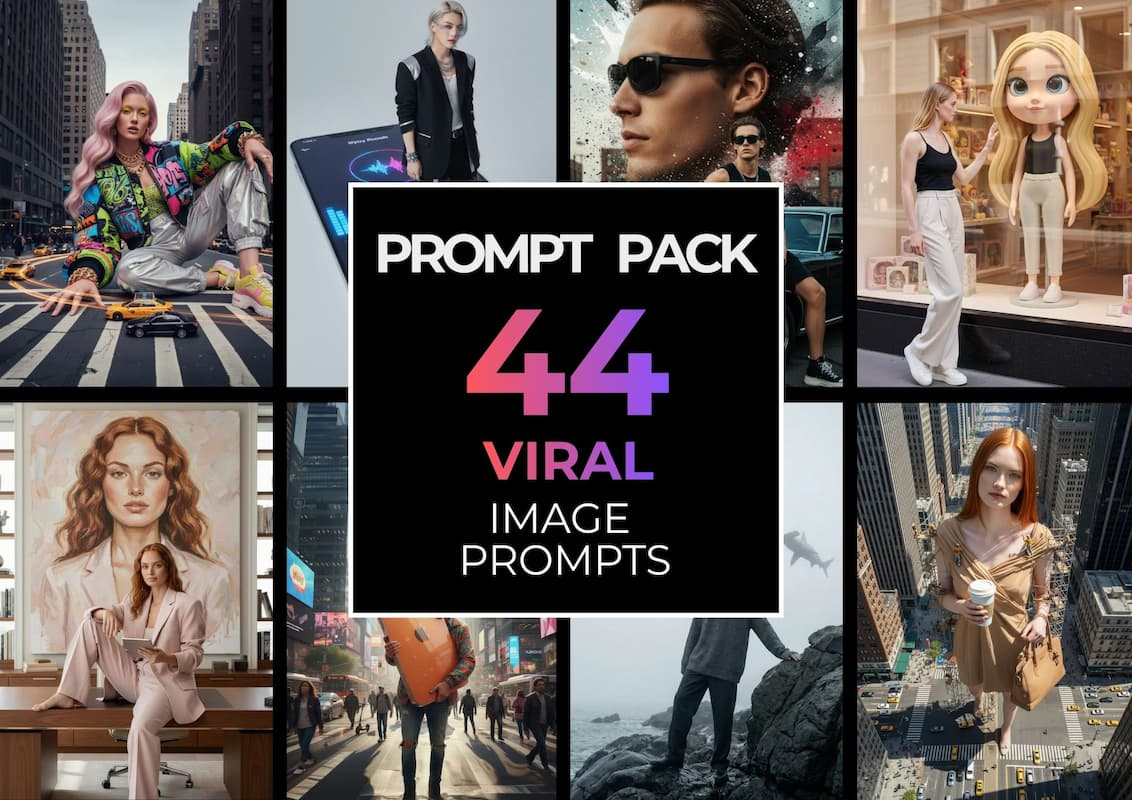
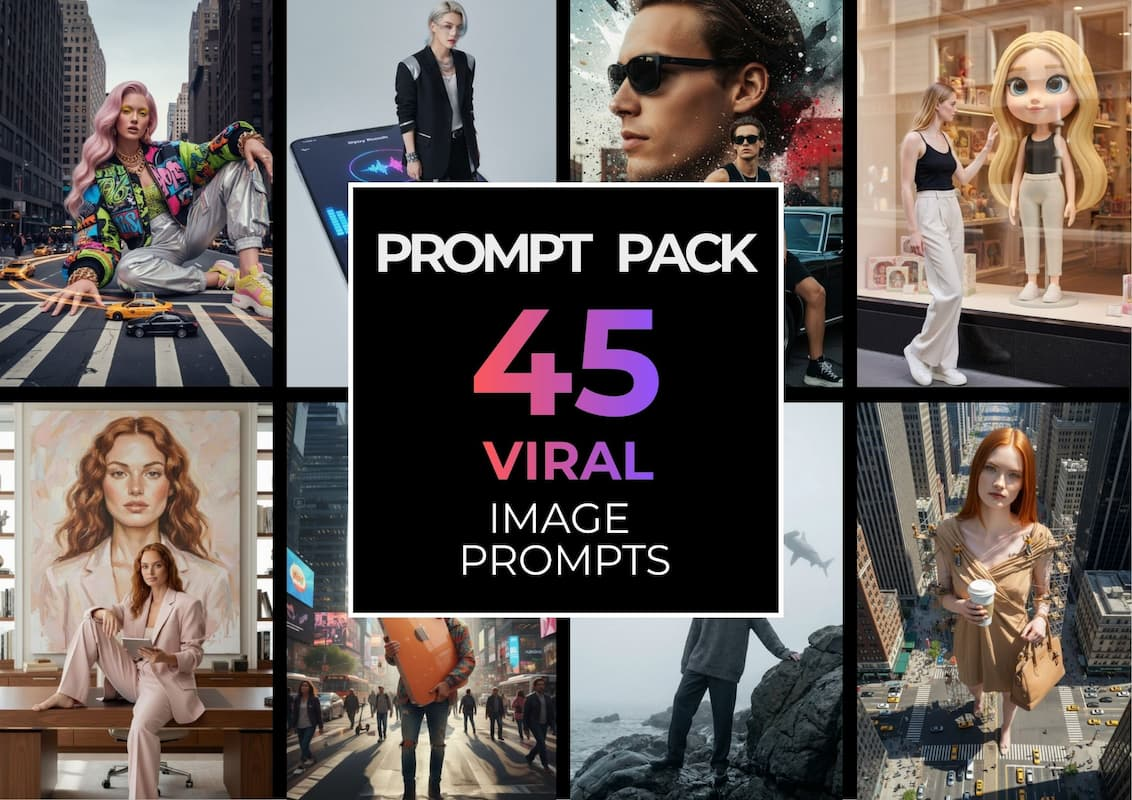
Update number

diff --git a/src/content/promptbooks/index.ts b/src/content/promptbooks/index.ts
@@ -450,7 +450,7 @@ export const PROMTBOOKS: Record<string, PromptBookRaw> = {
     id: 49,
     isBestseller: true,
     gumroadSlug: "viral-image-prompts",
-    number: 44,
+    number: 45,
     tags: ["fantasy", "design"],
     mainCategory: "fantasy",
     type: "pack",
